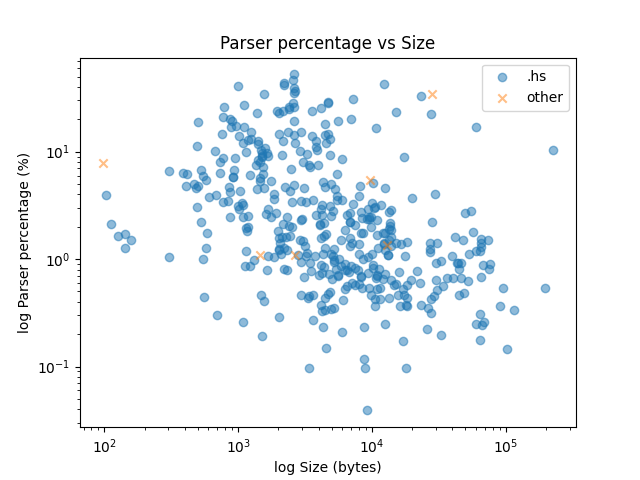
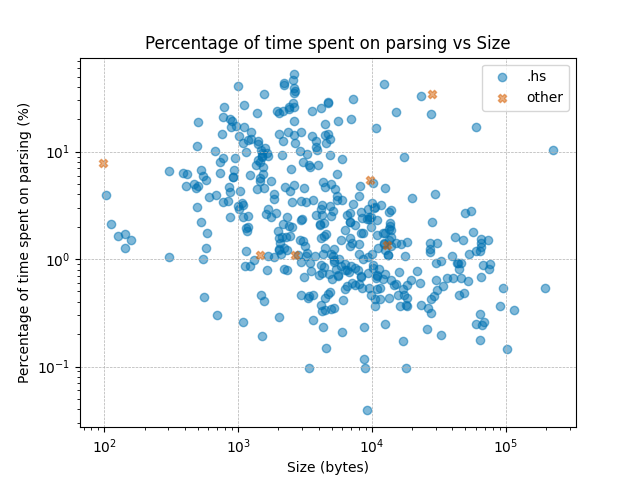
change plot titles, color, marker

diff --git a/collect_timing.py b/collect_timing.py
@@ -8,7 +8,17 @@ import matplotlib.pyplot as plt
 SAVE_PATH = "timing_data/"
 SOURCES_PATH = "sources/"
 COMBINED_CSV = "combined_stats.csv"
-   
+
+# Colorblind-friendly colors
+CF_red = (204/255, 121/255, 167/255)
+CF_vermillion = (213/255, 94/255, 0)
+CF_orange = (230/255, 159/255, 0)
+CF_yellow = (240/255, 228/255, 66/255)
+CF_green = (0, 158/255, 115/255)
+CF_sky = (86/255, 180/255, 233/255)
+CF_blue = (0, 114/255, 178/255)
+CF_black = (0, 0, 0)
+
 
 def read_json_file(file):
     with open(file) as f:
@@ -199,45 +209,49 @@ def make_plots():
 
     fig1, ax1 = plt.subplots()
     ax1.scatter(hs_df["total_time"], hs_df["parser_time"],
-                c = "C0", marker = "o", alpha = 0.5, label = ".hs")
+                color = CF_blue, marker = "o", alpha = 0.5, label = ".hs")
     ax1.scatter(other_df["total_time"], other_df["parser_time"],
-                c = "C1", marker = "x", alpha = 0.5, label = "other")
+                color = CF_vermillion, marker = "X", alpha = 0.5, label = "other")
     ax1.set(xscale = "log", yscale = "log")
-    ax1.set(xlabel = "log Total time (ms)", ylabel = "log Parser time (ms)",
+    ax1.grid(linestyle = "--", linewidth = 0.5)
+    ax1.set(xlabel = "Total time (ms)", ylabel = "Parser time (ms)",
             title = "Parser time vs Total time")
     ax1.legend()
     fig1.savefig("plot_parser_vs_total.png")
 
     fig2, ax2 = plt.subplots()
     ax2.scatter(hs_df["total_time"], hs_df["parser_percentage"],
-                c = "C0", marker = "o", alpha = 0.5, label = ".hs")
+                color = CF_blue, marker = "o", alpha = 0.5, label = ".hs")
     ax2.scatter(other_df["total_time"], other_df["parser_percentage"],
-                c = "C1", marker = "x", alpha = 0.5, label = "other")
+                color = CF_vermillion, marker = "X", alpha = 0.5, label = "other")
     ax2.set(xscale = "log", yscale = "log")
-    ax2.set(xlabel = "log Total time (ms)", ylabel = "log Parser percentage (%)",
-            title = "Parser percentage vs Total time")
+    ax2.grid(linestyle = "--", linewidth = 0.5)
+    ax2.set(xlabel = "Total time (ms)", ylabel = "Percentage of time spent on parsing (%)",
+            title = "Percentage of time spent on parsing vs Total time")
     ax2.legend()
     fig2.savefig("plot_parser_pct_vs_total.png")
 
     fig3, ax3 = plt.subplots()
     ax3.scatter(hs_df["size"], hs_df["parser_time"],
-                c = "C0", marker = "o", alpha = 0.5, label = ".hs")
+                color = CF_blue, marker = "o", alpha = 0.5, label = ".hs")
     ax3.scatter(other_df["size"], other_df["parser_time"],
-                c = "C1", marker = "x", alpha = 0.5, label = "other")
+                color = CF_vermillion, marker = "X", alpha = 0.5, label = "other")
     ax3.set(xscale = "log", yscale = "log")
-    ax3.set(xlabel = "log Size (bytes)", ylabel = "log Parser time (ms)",
+    ax3.grid(linestyle = "--", linewidth = 0.5)
+    ax3.set(xlabel = "Size (bytes)", ylabel = "Parser time (ms)",
             title = "Parser time vs Size")
     ax3.legend()
     fig3.savefig("plot_parser_vs_size.png")
 
     fig4, ax4 = plt.subplots()
     ax4.scatter(hs_df["size"], hs_df["parser_percentage"],
-                c = "C0", marker = "o", alpha = 0.5, label = ".hs")
+                color = CF_blue, marker = "o", alpha = 0.5, label = ".hs")
     ax4.scatter(other_df["size"], other_df["parser_percentage"],
-                c = "C1", marker = "x", alpha = 0.5, label = "other")
+                color = CF_vermillion, marker = "X", alpha = 0.5, label = "other")
     ax4.set(xscale = "log", yscale = "log")
-    ax4.set(xlabel = "log Size (bytes)", ylabel = "log Parser percentage (%)",
-            title = "Parser percentage vs Size")
+    ax4.grid(linestyle = "--", linewidth = 0.5)
+    ax4.set(xlabel = "Size (bytes)", ylabel = "Percentage of time spent on parsing (%)",
+            title = "Percentage of time spent on parsing vs Size")
     ax4.legend()
     fig4.savefig("plot_parser_pct_vs_size.png")
 

diff --git a/run.py b/run.py
@@ -3,13 +3,13 @@ from collect_timing import calculate_for_packages, combine_stats_files, clean_co
 
 
 if __name__ == "__main__":
-    links = get_top_packages(20)
-    # links = links[1:] # Omitting the `base` package
-    files = download_sources(links)
-    extract_sources(files)
-    dirs = list(map(lambda f: f.replace(".tar.gz", ""), files))
-    json_files = build_sources(dirs)
-    calculate_for_packages(json_files)
-    combine_stats_files()
-    clean_combined_file()
+    # links = get_top_packages(20)
+    # # links = links[1:] # Omitting the `base` package
+    # files = download_sources(links)
+    # extract_sources(files)
+    # dirs = list(map(lambda f: f.replace(".tar.gz", ""), files))
+    # json_files = build_sources(dirs)
+    # calculate_for_packages(json_files)
+    # combine_stats_files()
+    # clean_combined_file()
     make_plots()
